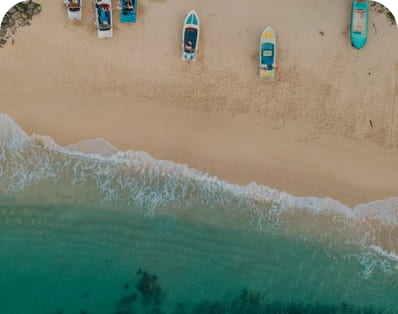
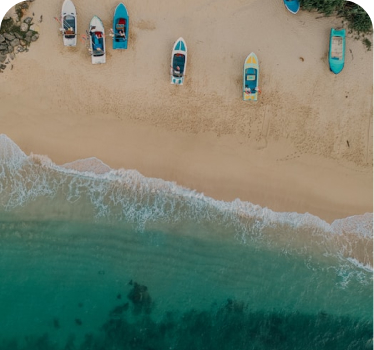
add style to destination section

diff --git a/index.html b/index.html
@@ -236,52 +236,62 @@
                 <ul class="destination__list">
                     <li class="destination__item">
                         <picture>
-                            <source srcset="./image/destination/destination-1@1x.jpg 1x, ./image/destination/destination-1@2x.jpg 2x" media="(min-width: 834px)">
+                            <source srcset="./image/destination/destination-1@1x.jpg 1x, ./image/destination/destination-1@2x.jpg 2x" media="(min-width: 1440px)">
+                            <source srcset="./image/destination/destination-tablet1@1x.jpg 1x, ./image/destination/destination-tablet1@2x.jpg 2x" media="(min-width: 1024px)">
                             <source srcset="./image/destination/destination-mobile1@1x.jpg 1x, ./image/destination/destination-mobile1@2x.jpg 2x" media="(min-width: 320px)">
-                            <img class="destination__image" src="./image/destination/destination-1@1x.jpg" alt="">
+                            <img class="destination__image" width="373" height="350" src="" alt="Rome, Italy">
                         </picture>
-                        <div class="wrapper__price">
-                            <p class="destination__name">Paradise Beach, Bantayan Island</p>
-                            <p class="destination__price">$550.16</p>
-                        </div>
-                        <p class="destination__country">Rome, Italy</p>
-                        <div class="destination__rating">
-                            <p class="rating__num">4.8</p>
-                            <svg xmlns="http://www.w3.org/2000/svg" width="24" height="24" fill="none"><path fill="#FF5722" d="M17.918 14.32a1.1 1.1 0 0 0-.319.97l.89 4.92a1.08 1.08 0 0 1-.45 1.08 1.1 1.1 0 0 1-1.17.08l-4.43-2.31a1.13 1.13 0 0 0-.5-.131h-.27a.812.812 0 0 0-.27.09l-4.43 2.321a1.17 1.17 0 0 1-.71.11 1.112 1.112 0 0 1-.89-1.271l.89-4.92a1.119 1.119 0 0 0-.32-.979l-3.61-3.5a1.08 1.08 0 0 1-.27-1.13c.134-.396.476-.685.89-.75l4.97-.721c.377-.039.71-.269.88-.609l2.19-4.49a.997.997 0 0 1 .2-.27l.09-.07a.671.671 0 0 1 .16-.13l.11-.04.17-.07h.42c.376.039.707.264.88.6l2.22 4.47c.16.327.47.554.83.609l4.97.721c.42.06.77.35.91.75.13.401.017.841-.29 1.13l-3.74 3.54Z"/></svg>
+                        <div class="item__wrapper">
+                            <div class="wrapper__price">
+                                <p class="destination__name">Paradise Beach, Bantayan Island</p>
+                                <p class="destination__price">$550.16</p>
+                            </div>
+                            <p class="destination__country">Rome, Italy</p>
+                            <div class="destination__rating">
+                                <p class="rating__num">4.8</p>
+                                <svg xmlns="http://www.w3.org/2000/svg" width="24" height="24" fill="none"><path fill="#FF5722" d="M17.918 14.32a1.1 1.1 0 0 0-.319.97l.89 4.92a1.08 1.08 0 0 1-.45 1.08 1.1 1.1 0 0 1-1.17.08l-4.43-2.31a1.13 1.13 0 0 0-.5-.131h-.27a.812.812 0 0 0-.27.09l-4.43 2.321a1.17 1.17 0 0 1-.71.11 1.112 1.112 0 0 1-.89-1.271l.89-4.92a1.119 1.119 0 0 0-.32-.979l-3.61-3.5a1.08 1.08 0 0 1-.27-1.13c.134-.396.476-.685.89-.75l4.97-.721c.377-.039.71-.269.88-.609l2.19-4.49a.997.997 0 0 1 .2-.27l.09-.07a.671.671 0 0 1 .16-.13l.11-.04.17-.07h.42c.376.039.707.264.88.6l2.22 4.47c.16.327.47.554.83.609l4.97.721c.42.06.77.35.91.75.13.401.017.841-.29 1.13l-3.74 3.54Z"/>
+                                </svg>
+                            </div>
                         </div>
                     </li>
 
                     <li class="destination__item">
                         <picture>
-                            <source srcset="./image/destination/destination-2@1x.jpg 1x, ./image/destination/destination-2@2x.jpg 2x" media="(min-width: 834px)">
+                            <source srcset="./image/destination/destination-2@1x.jpg 1x, ./image/destination/destination-2@2x.jpg 2x" media="(min-width: 1440px)">
+                            <source srcset="./image/destination/destination-tablet2@1x.jpg 1x, ./image/destination/destination-tablet2@2x.jpg 2x" media="(min-width: 1024px)">
                             <source srcset="./image/destination/destination-mobile2@1x.jpg 1x, ./image/destination/destination-mobile2@2x.jpg 2x" media="(min-width: 320px)">
-                            <img class="destination__image" src="./image/destination/destination-2@1x.jpg" alt="">
+                            <img class="destination__image" width="373" height="350" src="" alt="Maldives">
                         </picture>
-                        <div class="wrapper__price">
-                            <p class="destination__name">Ocean with full of Colors</p>
-                            <p class="destination__price">$20.99</p>
-                        </div>
-                        <p class="destination__country">Maldives</p>
-                        <div class="destination__rating">
-                            <p class="rating__num">4.5</p>
-                            <svg xmlns="http://www.w3.org/2000/svg" width="24" height="24" fill="none"><path fill="#FF5722" d="M17.918 14.32a1.1 1.1 0 0 0-.319.97l.89 4.92a1.08 1.08 0 0 1-.45 1.08 1.1 1.1 0 0 1-1.17.08l-4.43-2.31a1.13 1.13 0 0 0-.5-.131h-.27a.812.812 0 0 0-.27.09l-4.43 2.321a1.17 1.17 0 0 1-.71.11 1.112 1.112 0 0 1-.89-1.271l.89-4.92a1.119 1.119 0 0 0-.32-.979l-3.61-3.5a1.08 1.08 0 0 1-.27-1.13c.134-.396.476-.685.89-.75l4.97-.721c.377-.039.71-.269.88-.609l2.19-4.49a.997.997 0 0 1 .2-.27l.09-.07a.671.671 0 0 1 .16-.13l.11-.04.17-.07h.42c.376.039.707.264.88.6l2.22 4.47c.16.327.47.554.83.609l4.97.721c.42.06.77.35.91.75.13.401.017.841-.29 1.13l-3.74 3.54Z"/></svg>
+                        <div class="item__wrapper">
+                            <div class="wrapper__price">
+                                <p class="destination__name">Ocean with full of Colors</p>
+                                <p class="destination__price">$20.99</p>
+                            </div>
+                            <p class="destination__country">Maldives</p>
+                            <div class="destination__rating">
+                                <p class="rating__num">4.5</p>
+                                <svg xmlns="http://www.w3.org/2000/svg" width="24" height="24" fill="none"><path fill="#FF5722" d="M17.918 14.32a1.1 1.1 0 0 0-.319.97l.89 4.92a1.08 1.08 0 0 1-.45 1.08 1.1 1.1 0 0 1-1.17.08l-4.43-2.31a1.13 1.13 0 0 0-.5-.131h-.27a.812.812 0 0 0-.27.09l-4.43 2.321a1.17 1.17 0 0 1-.71.11 1.112 1.112 0 0 1-.89-1.271l.89-4.92a1.119 1.119 0 0 0-.32-.979l-3.61-3.5a1.08 1.08 0 0 1-.27-1.13c.134-.396.476-.685.89-.75l4.97-.721c.377-.039.71-.269.88-.609l2.19-4.49a.997.997 0 0 1 .2-.27l.09-.07a.671.671 0 0 1 .16-.13l.11-.04.17-.07h.42c.376.039.707.264.88.6l2.22 4.47c.16.327.47.554.83.609l4.97.721c.42.06.77.35.91.75.13.401.017.841-.29 1.13l-3.74 3.54Z"/></svg>
+                            </div>
                         </div>
                     </li>
 
                     <li class="destination__item">
                         <picture>
-                            <source srcset="./image/destination/destination-3@1x.jpg 1x, ./image/destination/destination-3@2x.jpg 2x" media="(min-width: 834px)">
+                            <source srcset="./image/destination/destination-3@1x.jpg 1x, ./image/destination/destination-3@2x.jpg 2x" media="(min-width: 1440px)">
+                            <source srcset="./image/destination/destination-tablet3@1x.jpg 1x, ./image/destination/destination-tablet3@2x.jpg 2x" media="(min-width: 1024px)">
                             <source srcset="./image/destination/destination-mobile3@1x.jpg 1x, ./image/destination/destination-mobile3@2x.jpg 2x" media="(min-width: 320px)">
-                            <img class="destination__image" src="./image/destination/destination-3@1x.jpg" alt="">
+                            <img class="destination__image" width="373" height="350" src="" alt="United Arab Emeries">
                         </picture>
-                        <div class="wrapper__price">
-                            <p class="destination__name">Mountain View, Above the cloud</p>
-                            <p class="destination__price">$150.99</p>
-                        </div>
-                        <p class="destination__country">United Arab Emeries </p>
-                        <div class="destination__rating">
-                            <p class="rating__num">5.0</p>
-                            <svg xmlns="http://www.w3.org/2000/svg" width="24" height="24" fill="none"><path fill="#FF5722" d="M17.918 14.32a1.1 1.1 0 0 0-.319.97l.89 4.92a1.08 1.08 0 0 1-.45 1.08 1.1 1.1 0 0 1-1.17.08l-4.43-2.31a1.13 1.13 0 0 0-.5-.131h-.27a.812.812 0 0 0-.27.09l-4.43 2.321a1.17 1.17 0 0 1-.71.11 1.112 1.112 0 0 1-.89-1.271l.89-4.92a1.119 1.119 0 0 0-.32-.979l-3.61-3.5a1.08 1.08 0 0 1-.27-1.13c.134-.396.476-.685.89-.75l4.97-.721c.377-.039.71-.269.88-.609l2.19-4.49a.997.997 0 0 1 .2-.27l.09-.07a.671.671 0 0 1 .16-.13l.11-.04.17-.07h.42c.376.039.707.264.88.6l2.22 4.47c.16.327.47.554.83.609l4.97.721c.42.06.77.35.91.75.13.401.017.841-.29 1.13l-3.74 3.54Z"/></svg>
+                        <div class="item__wrapper">
+                            <div class="wrapper__price">
+                                <p class="destination__name">Mountain View, Above the cloud</p>
+                                <p class="destination__price">$150.99</p>
+                            </div>
+                            <p class="destination__country">United Arab Emeries</p>
+                            <div class="destination__rating">
+                                <p class="rating__num">5.0</p>
+                                <svg xmlns="http://www.w3.org/2000/svg" width="24" height="24" fill="none"><path fill="#FF5722" d="M17.918 14.32a1.1 1.1 0 0 0-.319.97l.89 4.92a1.08 1.08 0 0 1-.45 1.08 1.1 1.1 0 0 1-1.17.08l-4.43-2.31a1.13 1.13 0 0 0-.5-.131h-.27a.812.812 0 0 0-.27.09l-4.43 2.321a1.17 1.17 0 0 1-.71.11 1.112 1.112 0 0 1-.89-1.271l.89-4.92a1.119 1.119 0 0 0-.32-.979l-3.61-3.5a1.08 1.08 0 0 1-.27-1.13c.134-.396.476-.685.89-.75l4.97-.721c.377-.039.71-.269.88-.609l2.19-4.49a.997.997 0 0 1 .2-.27l.09-.07a.671.671 0 0 1 .16-.13l.11-.04.17-.07h.42c.376.039.707.264.88.6l2.22 4.47c.16.327.47.554.83.609l4.97.721c.42.06.77.35.91.75.13.401.017.841-.29 1.13l-3.74 3.54Z"/></svg>
+                            </div>
                         </div>
                     </li>
                 </ul>

diff --git a/css/style.css b/css/style.css
@@ -752,7 +752,6 @@ ul {
 
 .destination__top {
   display: flex;
-  flex-direction: row;
   justify-content: space-between;
   margin-bottom: 64px;
 }
@@ -785,6 +784,7 @@ ul {
   border-radius: 100px;
   border: 1px solid rgba(25, 24, 37, 0.1);
   background: #ffffff;
+  padding: 0;
 }
 
 .destination__btn-purple {
@@ -794,8 +794,107 @@ ul {
 
 .destination__list {
   display: flex;
+  justify-content: center;
 }
 
+.destination__item {
+  border-radius: 0px 0px 32px 32px;
+  background: #FFF;
+  box-shadow: 0px 0px 0px 0px rgba(0, 0, 0, 0.05), 0px 32px 71px 0px rgba(0, 0, 0, 0.05), 0px 128px 128px 0px rgba(0, 0, 0, 0.04), 0px 288px 173px 0px rgba(0, 0, 0, 0.03), 0px 513px 205px 0px rgba(0, 0, 0, 0.01), 0px 801px 224px 0px rgba(0, 0, 0, 0);
+}
+
+.destination__item:not(:last-child) {
+  margin-right: 32px;
+}
+
+.destination__image {
+  border-radius: 32px 32px 0px 0px;
+}
+
+.item__wrapper {
+  display: flex;
+  padding: 32px;
+  flex-direction: column;
+  align-items: flex-start;
+  gap: 32px;
+}
+
+.wrapper__price {
+  display: flex;
+}
+
+.destination__name {
+  font-family: var(--main-font);
+  font-style: normal;
+  font-weight: 700;
+  font-size: 23px;
+  line-height: 120%;
+  color: var(--main-txt-cl);
+}
+
+.destination__price {
+  font-family: var(--main-font);
+  font-style: normal;
+  font-weight: 700;
+  font-size: 23px;
+  line-height: 120%;
+  color: var(--secondary-txt-cl);
+}
+
+.destination__country {
+  font-family: var(--subtitle-font);
+  font-style: normal;
+  font-weight: 400;
+  font-size: 18px;
+  line-height: 160%;
+  color: rgba(25, 24, 37, 0.75);
+}
+
+.destination__rating {
+  display: flex;
+  gap: 8px;
+}
+
+.rating__num {
+  font-family: var(--main-font);
+  font-style: normal;
+  font-weight: 700;
+  font-size: 23px;
+  line-height: 120%;
+  color: #FF5722;
+}
+
+@media only screen and (max-width: 1024px) {
+  .destination__item,
+  .destination__image {
+    width: 278px;
+  }
+  .destination__top {
+    flex-direction: column;
+    align-items: center;
+  }
+  .destination__title {
+    margin-bottom: 64px;
+  }
+  .destination__text-wrapper {
+    text-align: center;
+  }
+  .destination__wrapper {
+    display: flex;
+    gap: 8px;
+  }
+  .wrapper__price {
+    flex-direction: column;
+  }
+  .destination__name {
+    margin-bottom: 8px;
+  }
+}
+@media only screen and (max-width: 768px) {
+  .destination__list {
+    flex-direction: column;
+  }
+}
 
 
 /*# sourceMappingURL=style.css.map */

diff --git a/scss/components/_destination.scss b/scss/components/_destination.scss
@@ -5,7 +5,6 @@
 
 .destination__top{
     display: flex;
-    flex-direction: row;
     justify-content: space-between;
     margin-bottom: 64px;
 }
@@ -32,6 +31,7 @@
     border-radius: 100px;
     border: 1px solid  rgba(25, 24, 37, 0.10);
     background:  #ffffff;
+    padding: 0;
 }
 
 .destination__btn-purple{
@@ -43,5 +43,99 @@
 
 .destination__list{
     display: flex;
+    justify-content: center;
 }
 
+.destination__item{
+    border-radius: 0px 0px 32px 32px;
+    background: #FFF;
+    box-shadow: 0px 0px 0px 0px rgba(0, 0, 0, 0.05), 0px 32px 71px 0px rgba(0, 0, 0, 0.05), 0px 128px 128px 0px rgba(0, 0, 0, 0.04), 0px 288px 173px 0px rgba(0, 0, 0, 0.03), 0px 513px 205px 0px rgba(0, 0, 0, 0.01), 0px 801px 224px 0px rgba(0, 0, 0, 0.00);
+}
+
+.destination__item:not(:last-child){
+    margin-right: 32px;
+}
+
+.destination__image{
+    border-radius: 32px 32px 0px 0px;
+}
+
+.item__wrapper{
+    display: flex;
+    padding: 32px;
+    flex-direction: column;
+    align-items: flex-start;
+    gap: 32px;
+}
+
+.wrapper__price{
+    display: flex;
+}
+
+.destination__name{
+    font-family: var(--main-font);
+    @include fonts(normal, 700, 23px, 120%);
+    color: var(--main-txt-cl);
+}
+
+.destination__price{
+    font-family: var(--main-font);
+    @include fonts(normal, 700, 23px, 120%);
+    color: var(--secondary-txt-cl);
+}
+
+.destination__country{
+    font-family: var(--subtitle-font);
+    @include fonts(normal, 400, 18px, 160%);
+    color: rgba(25, 24, 37, 0.75);
+}
+
+.destination__rating{
+    display: flex;
+    gap: 8px;
+}
+
+.rating__num{
+    font-family: var(--main-font);
+    @include fonts(normal, 700, 23px, 120%);
+    color: #FF5722;
+}
+
+@media only screen and  (max-width: 1024px){
+    .destination__item,
+    .destination__image{
+        width: 278px;
+    }
+
+    .destination__top{
+        flex-direction: column;
+        align-items: center;
+    }
+
+    .destination__title{
+        margin-bottom: 64px;
+    }
+
+    .destination__text-wrapper{
+        text-align: center;
+    }
+
+    .destination__wrapper{
+        display: flex;
+        gap: 8px;
+    }
+    
+    .wrapper__price{
+        flex-direction: column;
+    }
+
+    .destination__name{
+        margin-bottom: 8px;
+    }
+}
+
+@media only screen and  (max-width: 768px){
+    .destination__list{
+        flex-direction: column;
+    }
+}
